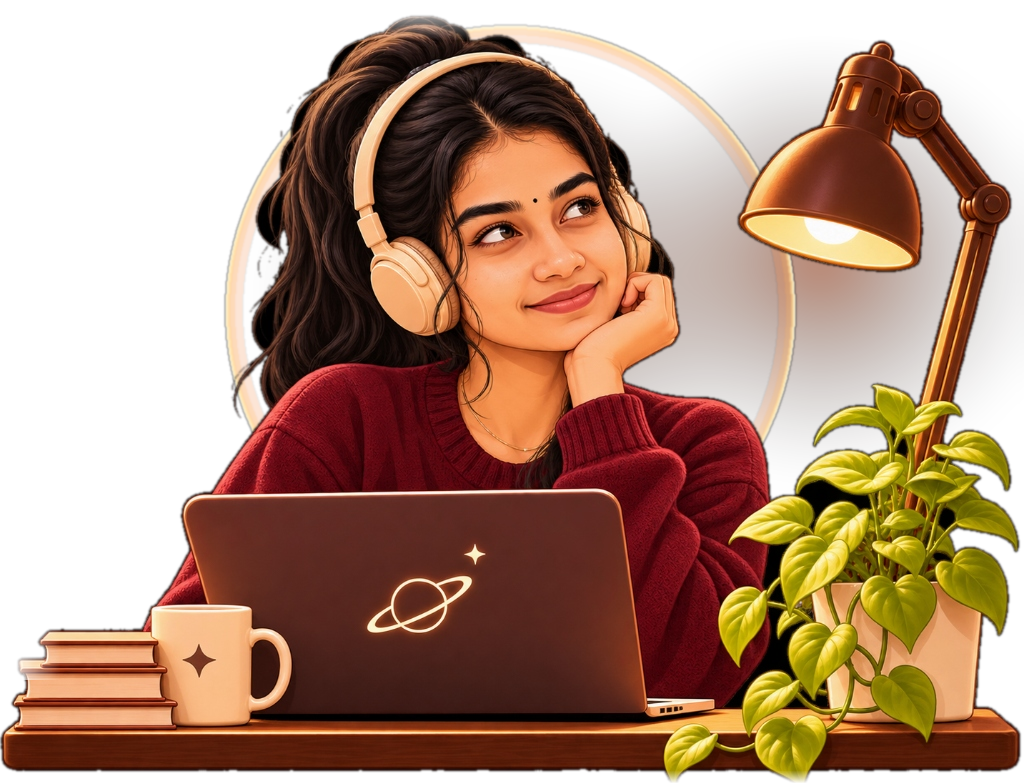
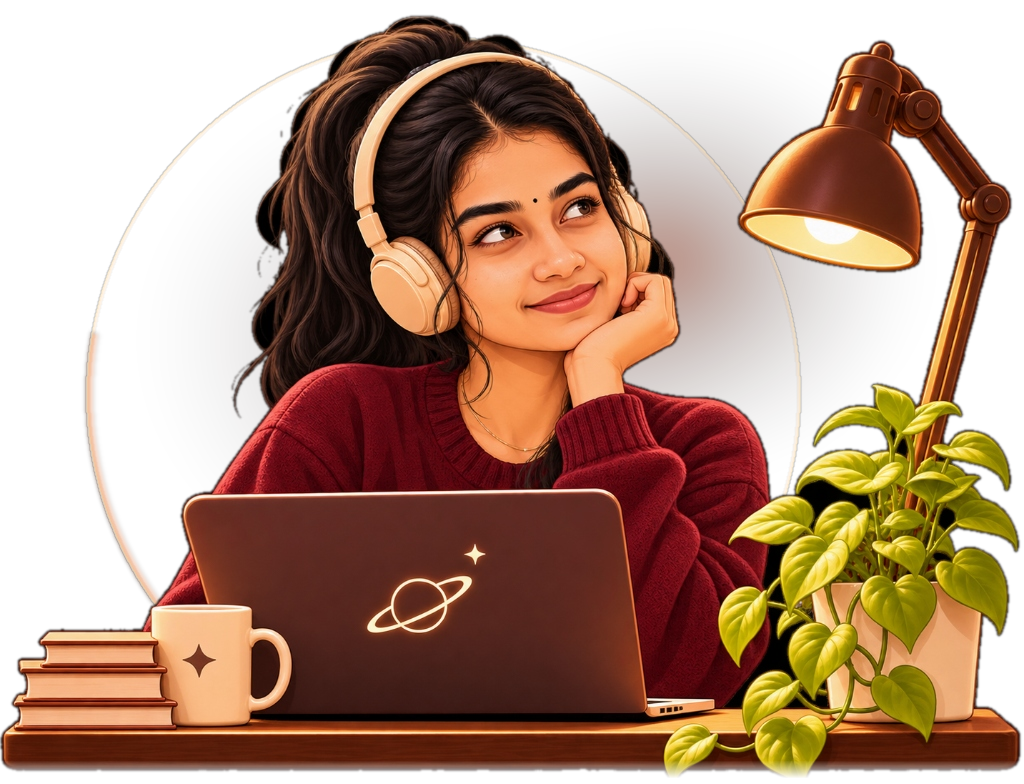
fix(home): match reference scale, eliminate empty space, refine thin ring and serif description

diff --git a/css/home.css b/css/home.css
@@ -40,10 +40,11 @@
   position: relative;
   z-index: 2;
   width: 100%;
-  max-width: var(--container-max-width);
+  max-width: 100%;
   height: 100%;
-  margin: 0 auto;
-  padding: 0 46px;
+  margin: 0;
+  padding-left: clamp(32px, 4.8vw, 68px);
+  padding-right: 0;
   display: flex;
   align-items: center;
   justify-content: flex-start;
@@ -58,9 +59,9 @@
   z-index: 3;
   display: flex;
   align-items: flex-start;
-  gap: 36px;
-  max-width: 580px;
-  margin-top: -6px; /* Accurately aligns "Hello," with y ~ 160px */
+  gap: clamp(32px, 3.8vw, 68px);
+  max-width: clamp(520px, 46vw, 680px);
+  margin-top: clamp(-48px, -5.5vh, -24px); /* Moves heading UP so star aligns with Hello,/I'm Keerthana */
 }
 
 /* Vertical Decorative Line with 4-Pointed Star */
@@ -70,10 +71,10 @@
   align-items: center;
   justify-content: center;
   position: relative;
-  height: 232px;
+  height: clamp(260px, 36vh, 340px);
   width: 16px;
   flex-shrink: 0;
-  margin-top: 14px;
+  margin-top: clamp(8px, 1.2vh, 16px);
 }
 
 .hero-decor-line {
@@ -92,20 +93,22 @@
 }
 
 .hero-decor-star {
-  position: relative;
+  position: absolute;
+  top: 48%; /* Exactly level between Hello, and I'm Keerthana Devan */
+  transform: translateY(-50%);
   z-index: 2;
   display: flex;
   align-items: center;
   justify-content: center;
-  width: 14px;
-  height: 14px;
+  width: clamp(14px, 1.3vw, 18px);
+  height: clamp(14px, 1.3vw, 18px);
   color: #fdf1de;
   filter: drop-shadow(0 0 6px rgba(246, 223, 193, 0.7));
 }
 
 .hero-decor-star svg {
-  width: 13px;
-  height: 13px;
+  width: 100%;
+  height: 100%;
   fill: currentColor;
 }
 
@@ -120,10 +123,10 @@
   font-family: var(--font-serif);
   font-weight: 500;
   color: #fdf1de;
-  font-size: clamp(3.0rem, 4.0vw, 3.95rem);
-  line-height: 1.08;
+  font-size: clamp(3.8rem, 6.2vw, 6.4rem);
+  line-height: 0.98;
   letter-spacing: -0.01em;
-  margin: 0 0 clamp(16px, 2.2vw, 24px) 0;
+  margin: 0 0 clamp(20px, 2.8vh, 32px) 0;
   text-shadow: 0 2px 14px rgba(23, 3, 6, 0.4);
 }
 
@@ -140,20 +143,21 @@
 
 /* Subtitle / Description */
 .hero-description {
-  font-family: var(--font-sans);
-  font-size: clamp(0.98rem, 1.2vw, 1.12rem);
+  font-family: var(--font-serif);
+  font-size: clamp(1.25rem, 1.55vw, 1.68rem);
   font-weight: 400;
-  line-height: 1.58;
-  color: var(--color-text-secondary);
-  max-width: 410px;
-  margin: 0 0 clamp(28px, 3.2vw, 38px) 0;
+  line-height: 1.5;
+  color: rgba(246, 223, 193, 0.94);
+  letter-spacing: 0.01em;
+  max-width: clamp(480px, 44vw, 680px);
+  margin: 0 0 clamp(32px, 4.0vh, 48px) 0;
 }
 
 /* CTA Buttons Row */
 .hero-actions {
   display: flex;
   align-items: center;
-  gap: 16px;
+  gap: clamp(18px, 2.0vw, 28px);
   flex-wrap: wrap;
 }
 
@@ -162,18 +166,18 @@
   display: inline-flex;
   align-items: center;
   justify-content: center;
-  gap: 9px;
-  padding: 12.5px 26px;
+  gap: 12px;
+  padding: clamp(14px, 1.6vh, 18px) clamp(34px, 2.5vw, 48px);
   background-color: var(--color-warm-cream);
-  color: var(--color-deep-burgundy);
+  color: #1a0306;
   font-family: var(--font-sans);
-  font-size: 0.94rem;
+  font-size: clamp(1.02rem, 1.15vw, 1.2rem);
   font-weight: 600;
   letter-spacing: 0.01em;
   text-decoration: none;
   border-radius: var(--radius-pill);
   border: 1px solid transparent;
-  box-shadow: 0 0 24px rgba(229, 143, 101, 0.35), 0 4px 16px rgba(23, 3, 6, 0.4);
+  box-shadow: 0 0 26px rgba(229, 143, 101, 0.38), 0 4px 16px rgba(23, 3, 6, 0.4);
   transition: background-color var(--duration-normal) var(--ease-smooth),
               box-shadow var(--duration-normal) var(--ease-smooth),
               transform var(--duration-normal) var(--ease-smooth);
@@ -181,13 +185,13 @@
 
 .btn-hero-primary:hover {
   background-color: #ffffff;
-  box-shadow: 0 0 32px rgba(246, 223, 193, 0.6), 0 6px 20px rgba(23, 3, 6, 0.5);
+  box-shadow: 0 0 34px rgba(246, 223, 193, 0.65), 0 6px 20px rgba(23, 3, 6, 0.5);
   transform: translateY(-2px);
 }
 
 .btn-hero-primary svg {
-  width: 14px;
-  height: 14px;
+  width: clamp(16px, 1.25vw, 20px);
+  height: clamp(16px, 1.25vw, 20px);
   stroke: currentColor;
   stroke-width: 2.2;
   transition: transform var(--duration-fast) var(--ease-smooth);
@@ -202,16 +206,16 @@
   display: inline-flex;
   align-items: center;
   justify-content: center;
-  padding: 12.5px 28px;
+  padding: clamp(13px, 1.55vh, 17px) clamp(34px, 2.5vw, 48px);
   background-color: transparent;
   color: var(--color-warm-cream);
   font-family: var(--font-sans);
-  font-size: 0.94rem;
+  font-size: clamp(1.02rem, 1.15vw, 1.2rem);
   font-weight: 500;
   letter-spacing: 0.01em;
   text-decoration: none;
   border-radius: var(--radius-pill);
-  border: 1px solid rgba(246, 223, 193, 0.55);
+  border: 1px solid rgba(246, 223, 193, 0.65);
   transition: border-color var(--duration-normal) var(--ease-smooth),
               background-color var(--duration-normal) var(--ease-smooth),
               color var(--duration-normal) var(--ease-smooth),
@@ -231,9 +235,9 @@
  * ========================================= */
 .hero-visual-wrapper {
   position: absolute;
-  right: -6px;
-  bottom: 44px;
-  width: clamp(500px, 56vw, 574px);
+  right: 0;
+  bottom: clamp(28px, 4.8vh, 52px);
+  width: clamp(550px, 56vw, 1140px);
   display: flex;
   align-items: flex-end;
   justify-content: flex-end;

diff --git a/css/navigation.css b/css/navigation.css
@@ -31,6 +31,11 @@
   align-items: center;
   justify-content: space-between;
   height: 100%;
+  width: 100%;
+  max-width: 100%;
+  padding-left: clamp(32px, 4.8vw, 76px);
+  padding-right: clamp(32px, 4.8vw, 76px);
+  box-sizing: border-box;
 }
 
 /* -----------------------------------------
@@ -39,13 +44,13 @@
 .nav-brand {
   display: flex;
   align-items: center;
-  gap: 12px;
+  gap: clamp(12px, 1.2vw, 18px);
   color: var(--color-warm-cream);
   text-decoration: none;
   font-family: var(--font-serif);
-  font-size: 0.94rem;
+  font-size: clamp(0.96rem, 1.15vw, 1.18rem);
   font-weight: 500;
-  letter-spacing: 0.16em;
+  letter-spacing: 0.18em;
   text-transform: uppercase;
   transition: color var(--duration-fast) var(--ease-smooth);
 }
@@ -61,10 +66,10 @@
 
 .nav-brand-line {
   display: inline-block;
-  width: 24px;
+  width: clamp(28px, 2.5vw, 44px);
   height: 1px;
   background-color: var(--color-muted-gold);
-  opacity: 0.6;
+  opacity: 0.65;
 }
 
 .nav-brand-star {
@@ -75,8 +80,8 @@
 }
 
 .nav-brand-star .star-four-point {
-  width: 9px;
-  height: 9px;
+  width: clamp(10px, 0.95vw, 13px);
+  height: clamp(10px, 0.95vw, 13px);
   fill: currentColor;
 }
 
@@ -86,13 +91,13 @@
 .nav-menu {
   display: flex;
   align-items: center;
-  gap: clamp(1.2rem, 2.2vw, 2.2rem);
+  gap: clamp(22px, 2.6vw, 42px);
 }
 
 .nav-link {
   position: relative;
   font-family: var(--font-sans);
-  font-size: 0.86rem;
+  font-size: clamp(0.92rem, 1.06vw, 1.12rem);
   font-weight: 500;
   letter-spacing: 0.02em;
   color: var(--color-text-secondary);
@@ -136,8 +141,9 @@
   background-color: var(--color-warm-cream) !important;
   color: var(--color-deep-burgundy) !important;
   border-radius: var(--radius-pill) !important;
-  padding: 6px 18px !important;
-  font-weight: 500 !important;
+  padding: clamp(7px, 1.0vh, 10px) clamp(22px, 1.8vw, 32px) !important;
+  font-size: clamp(0.9rem, 1.0vw, 1.04rem) !important;
+  font-weight: 600 !important;
   transition: background-color var(--duration-fast) var(--ease-smooth),
               transform var(--duration-fast) var(--ease-smooth),
               box-shadow var(--duration-fast) var(--ease-smooth);
@@ -159,19 +165,19 @@
 .nav-actions {
   display: flex;
   align-items: center;
-  gap: var(--space-md);
+  gap: clamp(14px, 1.6vw, 22px);
 }
 
 .nav-separator {
   width: 1px;
-  height: 22px;
+  height: clamp(22px, 2.8vh, 28px);
   background-color: rgba(246, 223, 193, 0.22);
 }
 
 .btn-resume {
-  padding: 6px 16px;
+  padding: clamp(8px, 1.1vh, 11px) clamp(18px, 1.6vw, 26px);
   font-family: var(--font-sans);
-  font-size: 0.78rem;
+  font-size: clamp(0.85rem, 0.96vw, 0.98rem);
   font-weight: 500;
   letter-spacing: 0.02em;
   color: var(--color-warm-cream);
